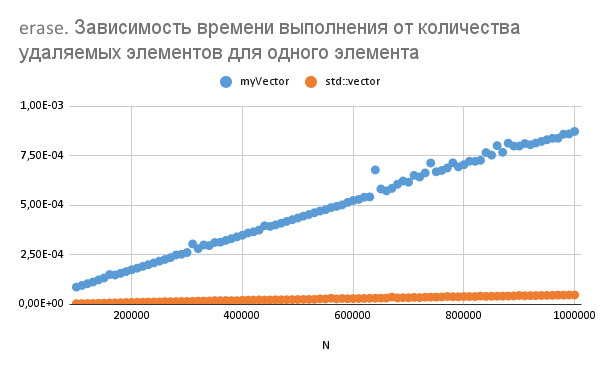
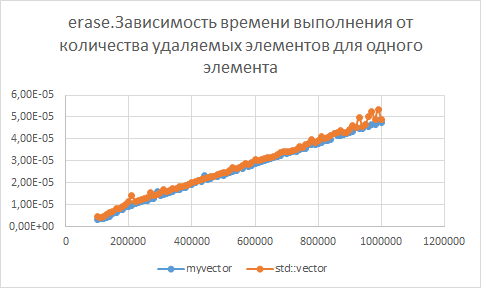
remaked erase and find method

Changed region(s): [[0.0, 0.0, 1.0, 0.9931], [0.5913, 0.6207, 0.9336, 0.6517], [0.9336, 0.5276, 0.9647, 0.5586]]

diff --git a/MyVector.h b/MyVector.h
@@ -25,7 +25,7 @@ public:
 	void resize(size_t n, const_reference value = _T());
 	_T find(const_reference value)const;
 	void erase(const_reference position);
-	void insert(const_reference value,  const_reference pos);
+	void insert(const_reference pos,  const_reference value);
 	const size_t Size()const;
 	const size_t _Capacity()const;
 	_T& operator[](int index)const;
@@ -61,11 +61,11 @@ inline Vector<_T>::Vector(size_t count, const_pointer arr)
 	if (arr != nullptr)
 	{
 		size = count;
-		reserve(count);
-		if (Target == nullptr)
-			Target = new _T[Capacity];
-
+		if (size > Capacity)
+			Capacity = size * 2;
+		Target = new _T[Capacity];
 		std::copy_n(arr, count, Target);
+		
 	}
 }
 
@@ -83,7 +83,7 @@ inline void Vector<_T>::push_back(const_reference value)
 {
 	
 	if (size == Capacity) reserve(2 * size);
-	new(Target + size)_T(value);
+	this->Target[size] = value;
 	++size;
 }
 
@@ -93,7 +93,7 @@ inline void Vector<_T>::reserve(size_t n)
 	if (n <= Capacity)return;
 	_T* newarr = new _T[n];
 	for (size_t i = 0; i < size; ++i)
-		new(newarr + i)_T(Target[i]);
+		newarr[i] = Target[i];
 	delete[]Target;
 	Target = newarr;
 	Capacity = n;
@@ -104,8 +104,10 @@ inline void Vector<_T>::resize(size_t n, const_reference value)
 {
 	if (n > Capacity)
 		reserve(n);
-	for (size_t i  = size; i < n; ++i)
-		new(Target + i)_T(value);
+	for (size_t i = size; i < n; ++i)
+	{
+		Target[i] = value;
+	}
 	if (n < size)
 		size = n;
 }
@@ -113,17 +115,9 @@ inline void Vector<_T>::resize(size_t n, const_reference value)
 template<class _T>
 inline  _T  Vector<_T>::find(const_reference value) const
 {
-	int first = 0;
-	int last = size -1;
-	while (first <= last) {
-		int mid = (first + last) / 2;
-		if (Target[mid] == value)
-			return mid;
-		else if (Target[mid] < value)
-			first = mid + 1;
-		else if (Target[mid] > value)
-			last = mid - 1;
-	}
+	for (int i = 0; i < size; i++)
+		if (Target[i] == value)
+			return i;
 	return -1;
 }
 
@@ -131,20 +125,19 @@ template<class _T>
 inline void Vector<_T>::erase(const_reference position)
 {
 	try {
-		if (position > size || position <= 0 || this == nullptr || size == 0)
+		if (position > size || position < 0 || this == nullptr || size == 0)
 			throw std::out_of_range("Invalid index, out_of_range");
-		auto positionSwap = position - 1;
-		for (int i = positionSwap; i < size; i++)
-			Target[i] = Target[i + 1];
+		memmove(Target + position, Target + position + 1, sizeof(_T) * (size - position));
 		size--;
 	}
 	catch (std::exception &error) {
+		
 		std::cout << error.what() << std::endl;
 	}
 }
 
 template<class _T>
-inline void Vector<_T>::insert(const_reference value, const_reference pos)
+inline void Vector<_T>::insert(const_reference pos, const_reference value)
 {
 
 	try {
@@ -255,7 +248,20 @@ template<class _T>
 	}
 	if (success == findCount) {
 		std::cout << "INFO: " << "Success find elements: " << success << std::endl;
-		std::cout << "Test success" << std::endl;
+		std::cout << "Test success" << std::endl<<std::endl;
 	}
+
+	const int countInsert = 30;
+	int prevSize = vect.size;
+	std::cout << "Test insert " << std::endl << "Count insert of elements: " << countInsert << std::endl;
+	for (int i = 0; i < countInsert; i++)
+
+		vect.insert(randAB(0, 1000), vect.size / 2);
+	if (vect.size - 30 == prevSize)
+	{
+		std::cout << "INFO: " << "Size: " << vect.Size() << " Capacity: " << vect._Capacity() << std::endl;
+		std::cout << "Test success" << std::endl << std::endl;
+	}
+
 
 }

diff --git a/main.cpp b/main.cpp
@@ -10,8 +10,8 @@
 #include <math.h>
 typedef std::chrono::high_resolution_clock Clock;
 
-const static int N = 2000000;
-const static int N_DIV = 100;
+const static int N = 1000000;
+ static int N_DIV = 100;
 const static int K = N / 100;
 
 
@@ -72,26 +72,87 @@ void testErase()
 		for (int j = 0; j < i; j++)
 			vec.push_back(randAB(0, 1000));
 		auto before = Clock::now();
-		for (int j = 0; j < 100; j++)
+		for (int j = 0; j < 200; j++)
 		{
 			//vec.erase(i / 2);
-			vec.erase(vec.begin());
+			vec.erase(vec.begin() + i / 2);
 			//vec.insert(vec.begin() + i / 2, randAB(0, 1000));
-			//vec.insert(randAB(0, 1000), i/2);
-				//vec.insert(vec.begin()+ (vec.size()/2), randAB(0, 1000));
+
 
 		}
 		//vec.push_back(randAB(1, 2));
 		auto after = Clock::now();
 		using namespace std::chrono;
 		duration<double> time_span = duration_cast<duration<double>>(after - before);
-		std::cout << i << " " << time_span.count() / 100 << std::endl;
+		std::cout << i << " " << time_span.count() / 200 << std::endl;
 
 	}
 }
+int cmp = 0;
+
+bool is_find(int i,int j)
+{
+	cmp++;
+	return i ==j;
+}
+void testFind()
+{
+	for (size_t i = N / 10; i <= N; i += N / N_DIV)
+	{
+		int cmpsum = 0;
+
+		std::vector<int>vec;
+		//Vector<int>vec;
+		for (int j = 0; j < i; j++)
+			vec.push_back(randAB(0, 1000000));
+		auto before = Clock::now();
+
+		for (int j = 0; j < 1000; j++)
+		{
+			int index = randAB(0, i);
+			//vec.find(vec[index]);
+			std::find(vec.begin(), vec.end(), vec[index]);
+		}
+	
+		auto after = Clock::now();
+		using namespace std::chrono;
+		duration<double> time_span = duration_cast<duration<double>>(after - before);
+		std::cout << i << " " << time_span.count() / 1000 << std::endl;
+
+	}
+}
+void TestVector(void) {
+	int MaxSize = 100000000, Step = MaxSize / 5, Trials = 1000, i = 0, j = 0;
+	float t1, t2;
+	for (i = Step; i <= MaxSize; i += Step) {
+		//std::vector<int> vec;
+		Vector<int> vec;
+		for (j = 0; j < i; j++)
+			vec.push_back(j);
+		t1 = GetTickCount();
+		for (j = 0; j < Trials; j++)
+			vec.erase(i / 2);
+			//vec.push_back(j);
+			//vec.insert( i / 2, j);
+		t2 = GetTickCount();
+		std::cout << i << " " << (t2 - t1) / Trials <<std::endl;
+	}
+
+}
 int main()
 {
-	//Vector<int> test; 
+	int arr[] = { 1,2,3,4,5,6,7,8,9,10,11,12,13,14,15,16,17,18,19,20 };
+	Vector<int> test(20,arr); 
+	for (int i = 0; i < 3; i++)
+	{
+		int index = randAB(0, test.Size());
+		std::cout << "Delete element: " << test[index / 2] << std::endl;
+		test.erase(index / 2);
+
+	}
+
+	for (auto it = test.begin(); it != test.end(); ++it)
+		std::cout << *it << std::endl;
 	//std::vector<int>vec;
 	//for (int i = 0; i < 100; i++)
 	//{
@@ -101,5 +162,7 @@ int main()
 	//test.printDebug();
 	//testPushBack();
 	//testInsert();
-	testErase();
+	//testErase();
+	//testFind();
+	//TestVector();
 }

diff --git a/README.md b/README.md
@@ -26,8 +26,17 @@ But the insertion method already has an asymptotic complexity equal to O(n). Of 
 
 ## Erase method
 
-The graph shows that the asymptotic complexity of this method is O(n), while the speed of the vector from the standard library is much higher and is almost O(1).
+The graph shows that the asymptotic complexity of the erase method is O(n) for both methods.
 
 <p align="center">
   <img src="https://github.com/ZkunCry/MyVectorCPP/raw/master/assets/erase.png" alt="drawing" width="500"/>
+</p>
+
+## Find method
+
+Both methods are based on a sequential search algorithm and, as you can see in the graphs,
+the asymptotic complexity is (n)
+
+<p align="center">
+  <img src="https://github.com/ZkunCry/MyVectorCPP/raw/master/assets/find.png" alt="drawing" width="500"/>
 </p>
